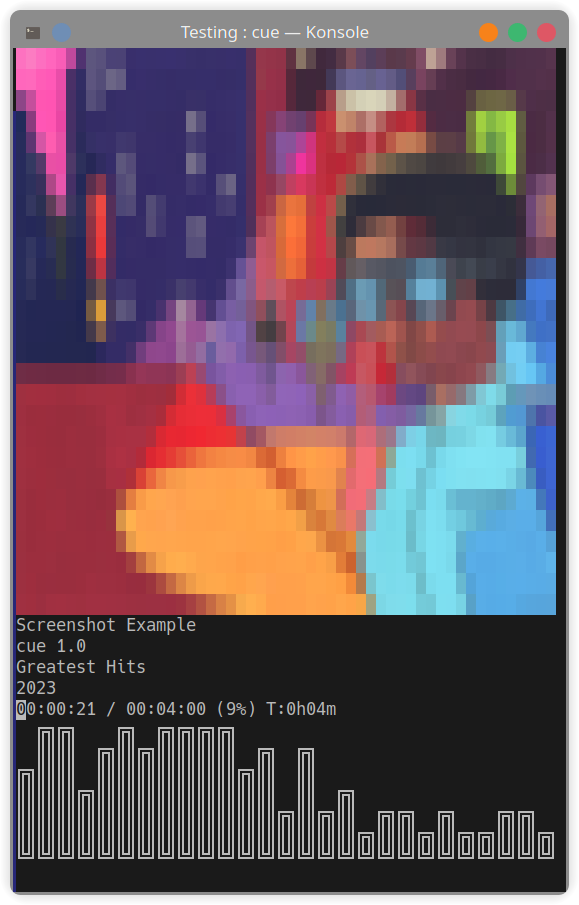
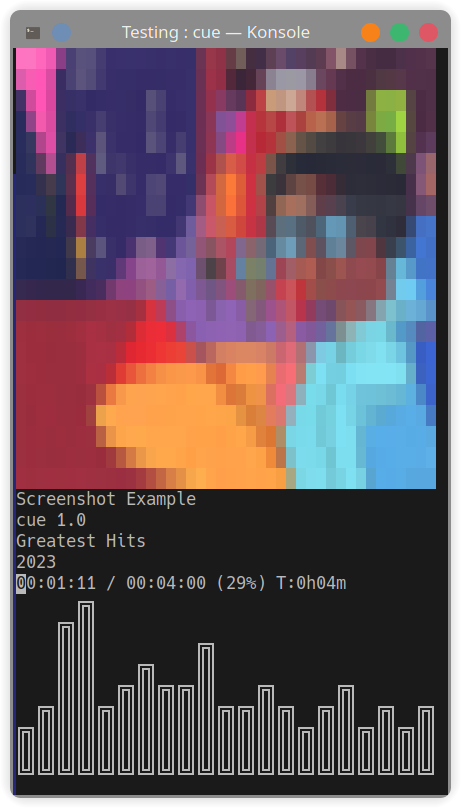
increased visualizationHeight

diff --git a/src/player.c b/src/player.c
@@ -9,7 +9,7 @@ bool coverEnabled = true;
 bool coverBlocks = true;
 bool drewCover = true;
 bool drewVisualization = false;
-int visualizationHeight = 6;
+int visualizationHeight = 8;
 int asciiHeight = 250;
 int asciiWidth = 500;
 int minWidth = 31;
